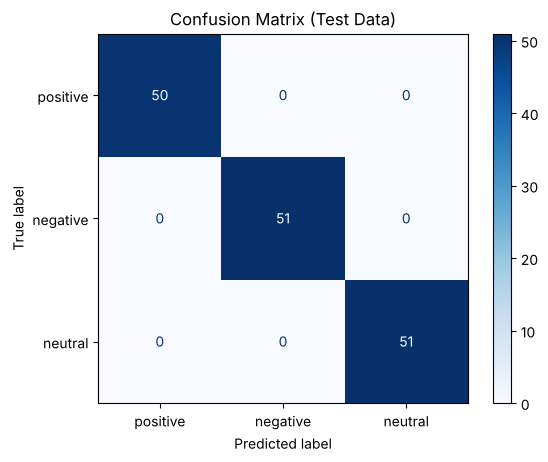
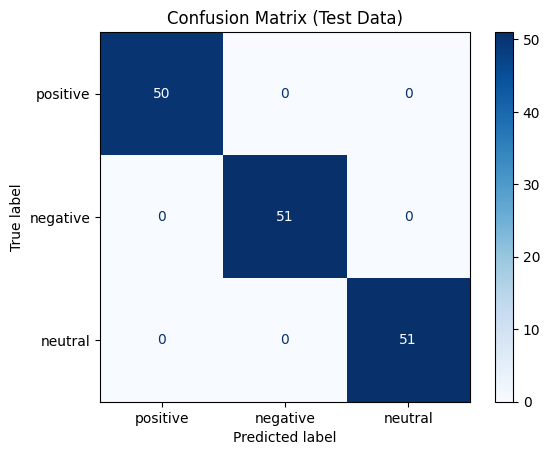
added report file

diff --git a/project_guide.md b/project_guide.md
@@ -1,0 +1,159 @@
+# Real-Time Text Analyzer Using Machine Learning: Guide
+
+## How to run
+```
+cd real-time-text-analyzer
+pip install -r requirements.txt
+python train_model.py
+python app.py
+```
+Open http://127.0.0.1:5000
+
+(`model.pkl`, `vectorizer.pkl` and `confusion_matrix.png` are already included in the zip. Running `train_model.py` recreates them.)
+
+---
+
+## Where each AIML concept is used
+
+| # | Concept | Where / what it means in this project |
+|---|---|---|
+| 1 | Supervised Learning | The dataset has text AND the correct label (`sentiment`). The model learns from these labelled examples. |
+| 2 | Classification | The output is a category (positive / negative / neutral), not a number. |
+| 3 | Logistic Regression | `LogisticRegression` in `train_model.py`. It calculates a probability for each class and picks the highest. |
+| 4 | Feature Engineering | `clean_text()` and `TfidfVectorizer` turn raw text into useful numeric features. |
+| 5 | Training | `model.fit(X_train_tfidf, y_train)` on 80% of the data. |
+| 6 | Testing | `model.predict(X_test_tfidf)` on the unseen 20% of the data. |
+| 7 | Accuracy | Correct predictions / total predictions (`accuracy_score`). |
+| 8 | Precision | Of the texts predicted as a class, how many really were that class (`precision_score`). |
+| 9 | Recall | Of the texts that really belong to a class, how many were found (`recall_score`). |
+| 10 | F1-Score | Balance of precision and recall (`f1_score`). |
+| 11 | Confusion Matrix | Table of actual vs predicted classes (`confusion_matrix`). |
+| 12 | Visualization | `confusion_matrix.png` is drawn with matplotlib. |
+
+Training accuracy is also printed next to testing accuracy. If training accuracy is much higher than testing accuracy, that is overfitting.
+
+---
+
+## Result on my run (and an honest note)
+
+757 records (252 positive, 252 negative, 253 neutral). Training 605 / Testing 152.
+Accuracy, Precision, Recall and F1 were all 100% on the test set.
+
+**Be ready to explain this in viva:** the dataset is small and was built from repeated sentence patterns, so the test sentences look very similar to the training sentences. That is why the score is perfect. It does not mean the model will be perfect on real-world text, such as long reviews, sarcasm or mixed opinions. Say this yourself before the examiner asks. If your teacher expects a more realistic score, add more varied, hand-written sentences to the CSV and retrain.
+
+---
+
+## Project Report Content
+
+**1. Project Title**
+Real-Time Text Analyzer Using Machine Learning
+
+**2. Problem Statement**
+Manually reading text to find its tone is slow. The project builds a system that counts words, characters and sentences and predicts the sentiment of text as the user types.
+
+**3. Motivation**
+Sentiment analysis is used in reviews, feedback and social media. A small real-time tool is a simple way to apply supervised learning on text.
+
+**4. Objectives**
+- Build a sentiment classifier using Logistic Regression and TF-IDF.
+- Evaluate it using accuracy, precision, recall, F1-score and a confusion matrix.
+- Provide a local web interface that gives results in real time.
+
+**5. Proposed System**
+A Flask web app with a saved ML model. The browser sends typed text to Flask, Flask returns the counts, the sentiment and the confidence, and the page updates without refreshing.
+
+**6. Methodology**
+Text, then Preprocessing, then TF-IDF, then Logistic Regression, then Sentiment (Positive / Negative / Neutral). The dataset is split 80% training and 20% testing. The trained model is saved with joblib.
+
+**7. Technologies Used**
+Python, Flask, HTML, CSS, JavaScript, Pandas, Scikit-learn, Joblib, Matplotlib (for the confusion matrix picture).
+
+**8. Dataset Description**
+A local CSV file `sentiment_dataset.csv` with two columns (`text`, `sentiment`). It has 757 short sentences, about 250 for each of the three classes. No internet or API is needed.
+
+**9. Data Preprocessing**
+Convert to lowercase, expand "n't" to "not", remove punctuation, remove extra spaces, and drop empty values.
+
+**10. TF-IDF**
+TF-IDF gives each word a number. Words that appear often in one sentence but rarely in the whole dataset get a high weight. This converts text into numbers that Logistic Regression can use. Word pairs (such as "not good") are also included.
+
+**11. Logistic Regression**
+A supervised classification algorithm. It computes a probability for each class (softmax for 3 classes) and predicts the class with the highest probability. That probability is shown as the confidence.
+
+**12. Model Training**
+80% of the data is vectorized with TF-IDF (`fit_transform`) and used to train `LogisticRegression`. The model and vectorizer are saved as `model.pkl` and `vectorizer.pkl`.
+
+**13. Model Testing**
+The remaining 20% of the data, which the model has never seen, is transformed with the same vectorizer and passed to the model for prediction.
+
+**14. Evaluation Metrics**
+Accuracy, Precision, Recall, F1-Score (macro average over the 3 classes) and a Confusion Matrix.
+
+**15. Results**
+The model reached 100% accuracy, precision, recall and F1-score on the test data of this small dataset. The confusion matrix has only diagonal values (no wrong predictions). The app returns a prediction within a fraction of a second.
+
+**16. Advantages**
+Simple, fast, works offline, easy to explain, real-time response, and the model is saved so it is not retrained at every start.
+
+**17. Limitations**
+- Small, pattern-based dataset, so results may not hold on real-world text.
+- Cannot understand sarcasm or mixed opinions.
+- Only English text.
+- Words not in the vocabulary are ignored.
+
+**18. Future Scope**
+Use a larger real dataset, try SVM or Random Forest and compare, use cross-validation and hyperparameter tuning, and add more languages.
+
+**19. Conclusion**
+The project shows a complete beginner-level ML pipeline: dataset, preprocessing, TF-IDF, Logistic Regression, evaluation and real-time prediction in a local web app.
+
+---
+
+## 15 Viva Questions and Answers
+
+**1. What is Artificial Intelligence?**
+AI is making machines do tasks that normally need human intelligence, such as understanding language or making decisions.
+
+**2. What is Machine Learning?**
+Machine Learning is a part of AI where a computer learns patterns from data instead of being programmed with fixed rules.
+
+**3. What is supervised learning?**
+Learning from labelled data, where each input has a correct answer. Here, each sentence has a sentiment label.
+
+**4. What is classification?**
+Predicting a category for an input. Our model classifies text as positive, negative or neutral.
+
+**5. Why did you use Logistic Regression?**
+It is simple, fast, works well for text classification, and gives probabilities, which we show as confidence. It is also part of our syllabus.
+
+**6. What is TF-IDF?**
+Term Frequency-Inverse Document Frequency. It gives each word a weight based on how often it appears in a sentence and how rare it is across all sentences.
+
+**7. Why do we convert text into numbers?**
+Machine learning models can only do mathematics on numbers, so text must be converted into numeric features first.
+
+**8. What is training data?**
+The part of the data (80% here) that the model learns from.
+
+**9. What is testing data?**
+The part of the data (20% here) kept aside and not used in training. It checks how well the model works on unseen data.
+
+**10. What is accuracy?**
+Accuracy = correct predictions / total predictions.
+
+**11. What is precision?**
+Of all the texts predicted as one class (say positive), the fraction that really were that class.
+
+**12. What is recall?**
+Of all the texts that really belong to one class, the fraction the model correctly found.
+
+**13. What is F1-score?**
+The harmonic mean of precision and recall. It is one number that balances both.
+
+**14. What is a confusion matrix?**
+A table that compares actual classes with predicted classes. The diagonal shows correct predictions and the other cells show mistakes.
+
+**15. How does your real-time analyzer work?**
+When the user types, JavaScript waits 400 ms (debounce) and sends the text to Flask. Flask cleans the text, applies the saved TF-IDF vectorizer, predicts with the saved Logistic Regression model, and returns counts, sentiment and confidence. The page updates without reloading.
+
+**Likely follow-up:** *"Why is your accuracy 100%?"* Because the dataset is small and its sentences follow similar patterns, so the test set is very similar to the training set. On real-world text, accuracy would be lower.
